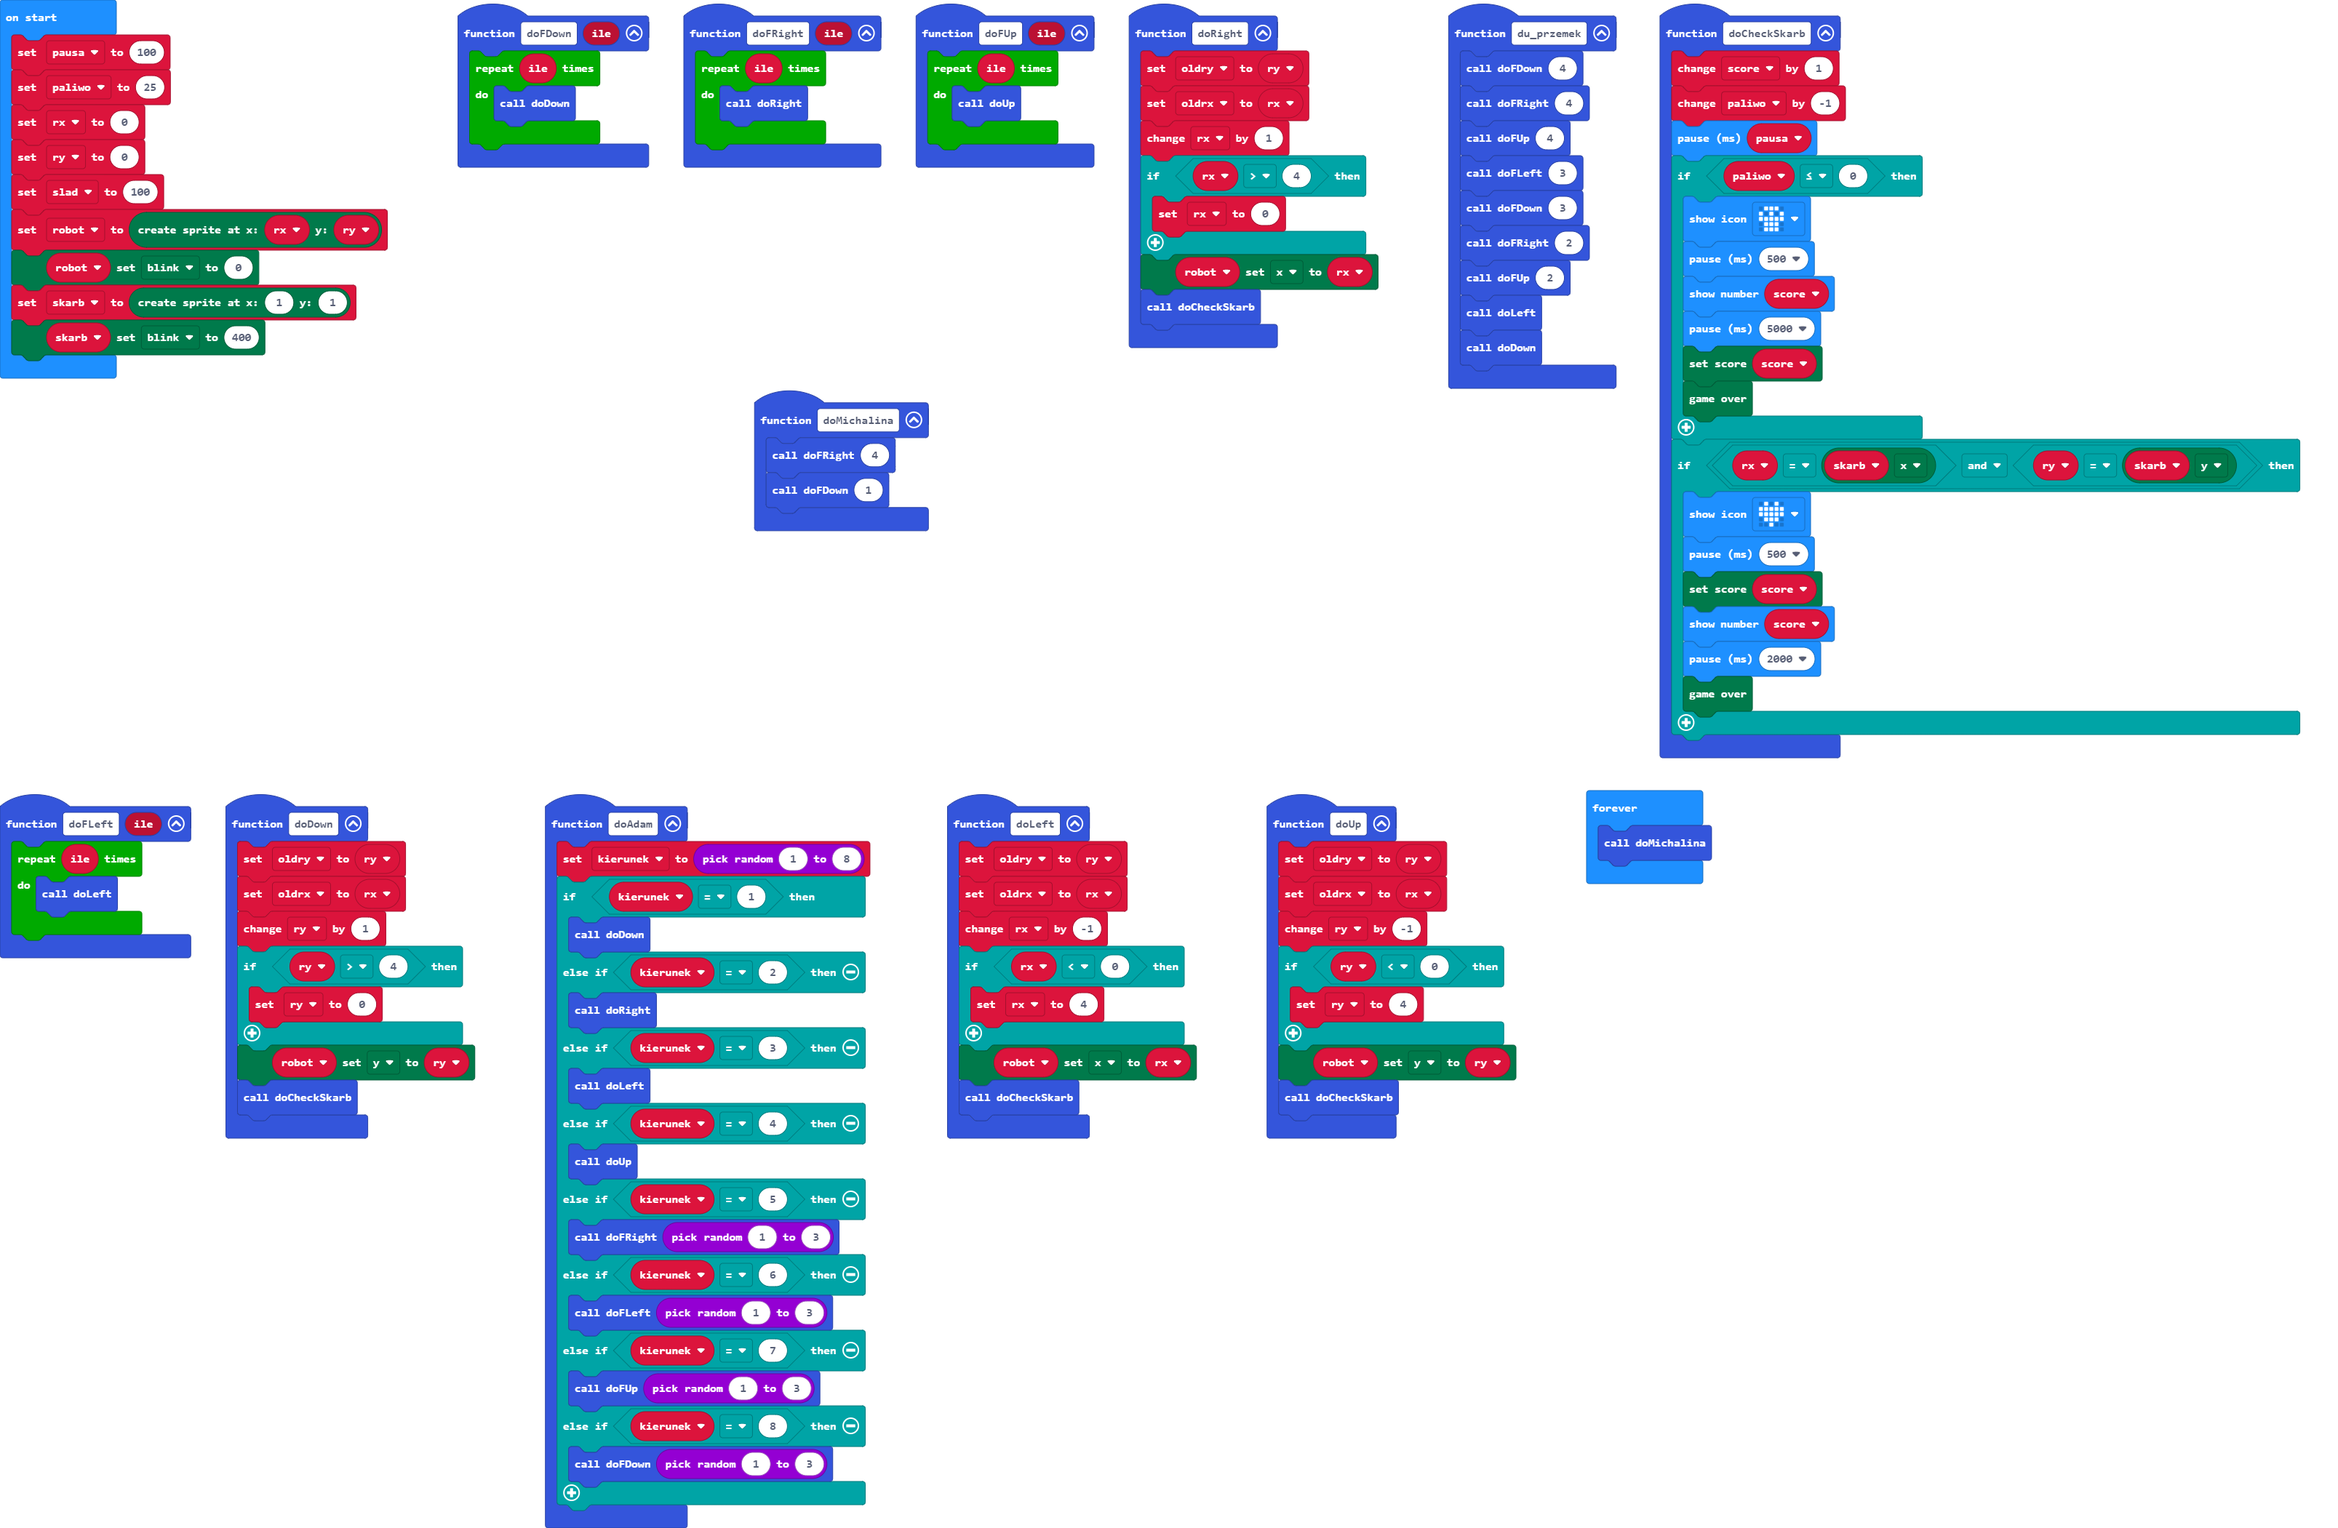
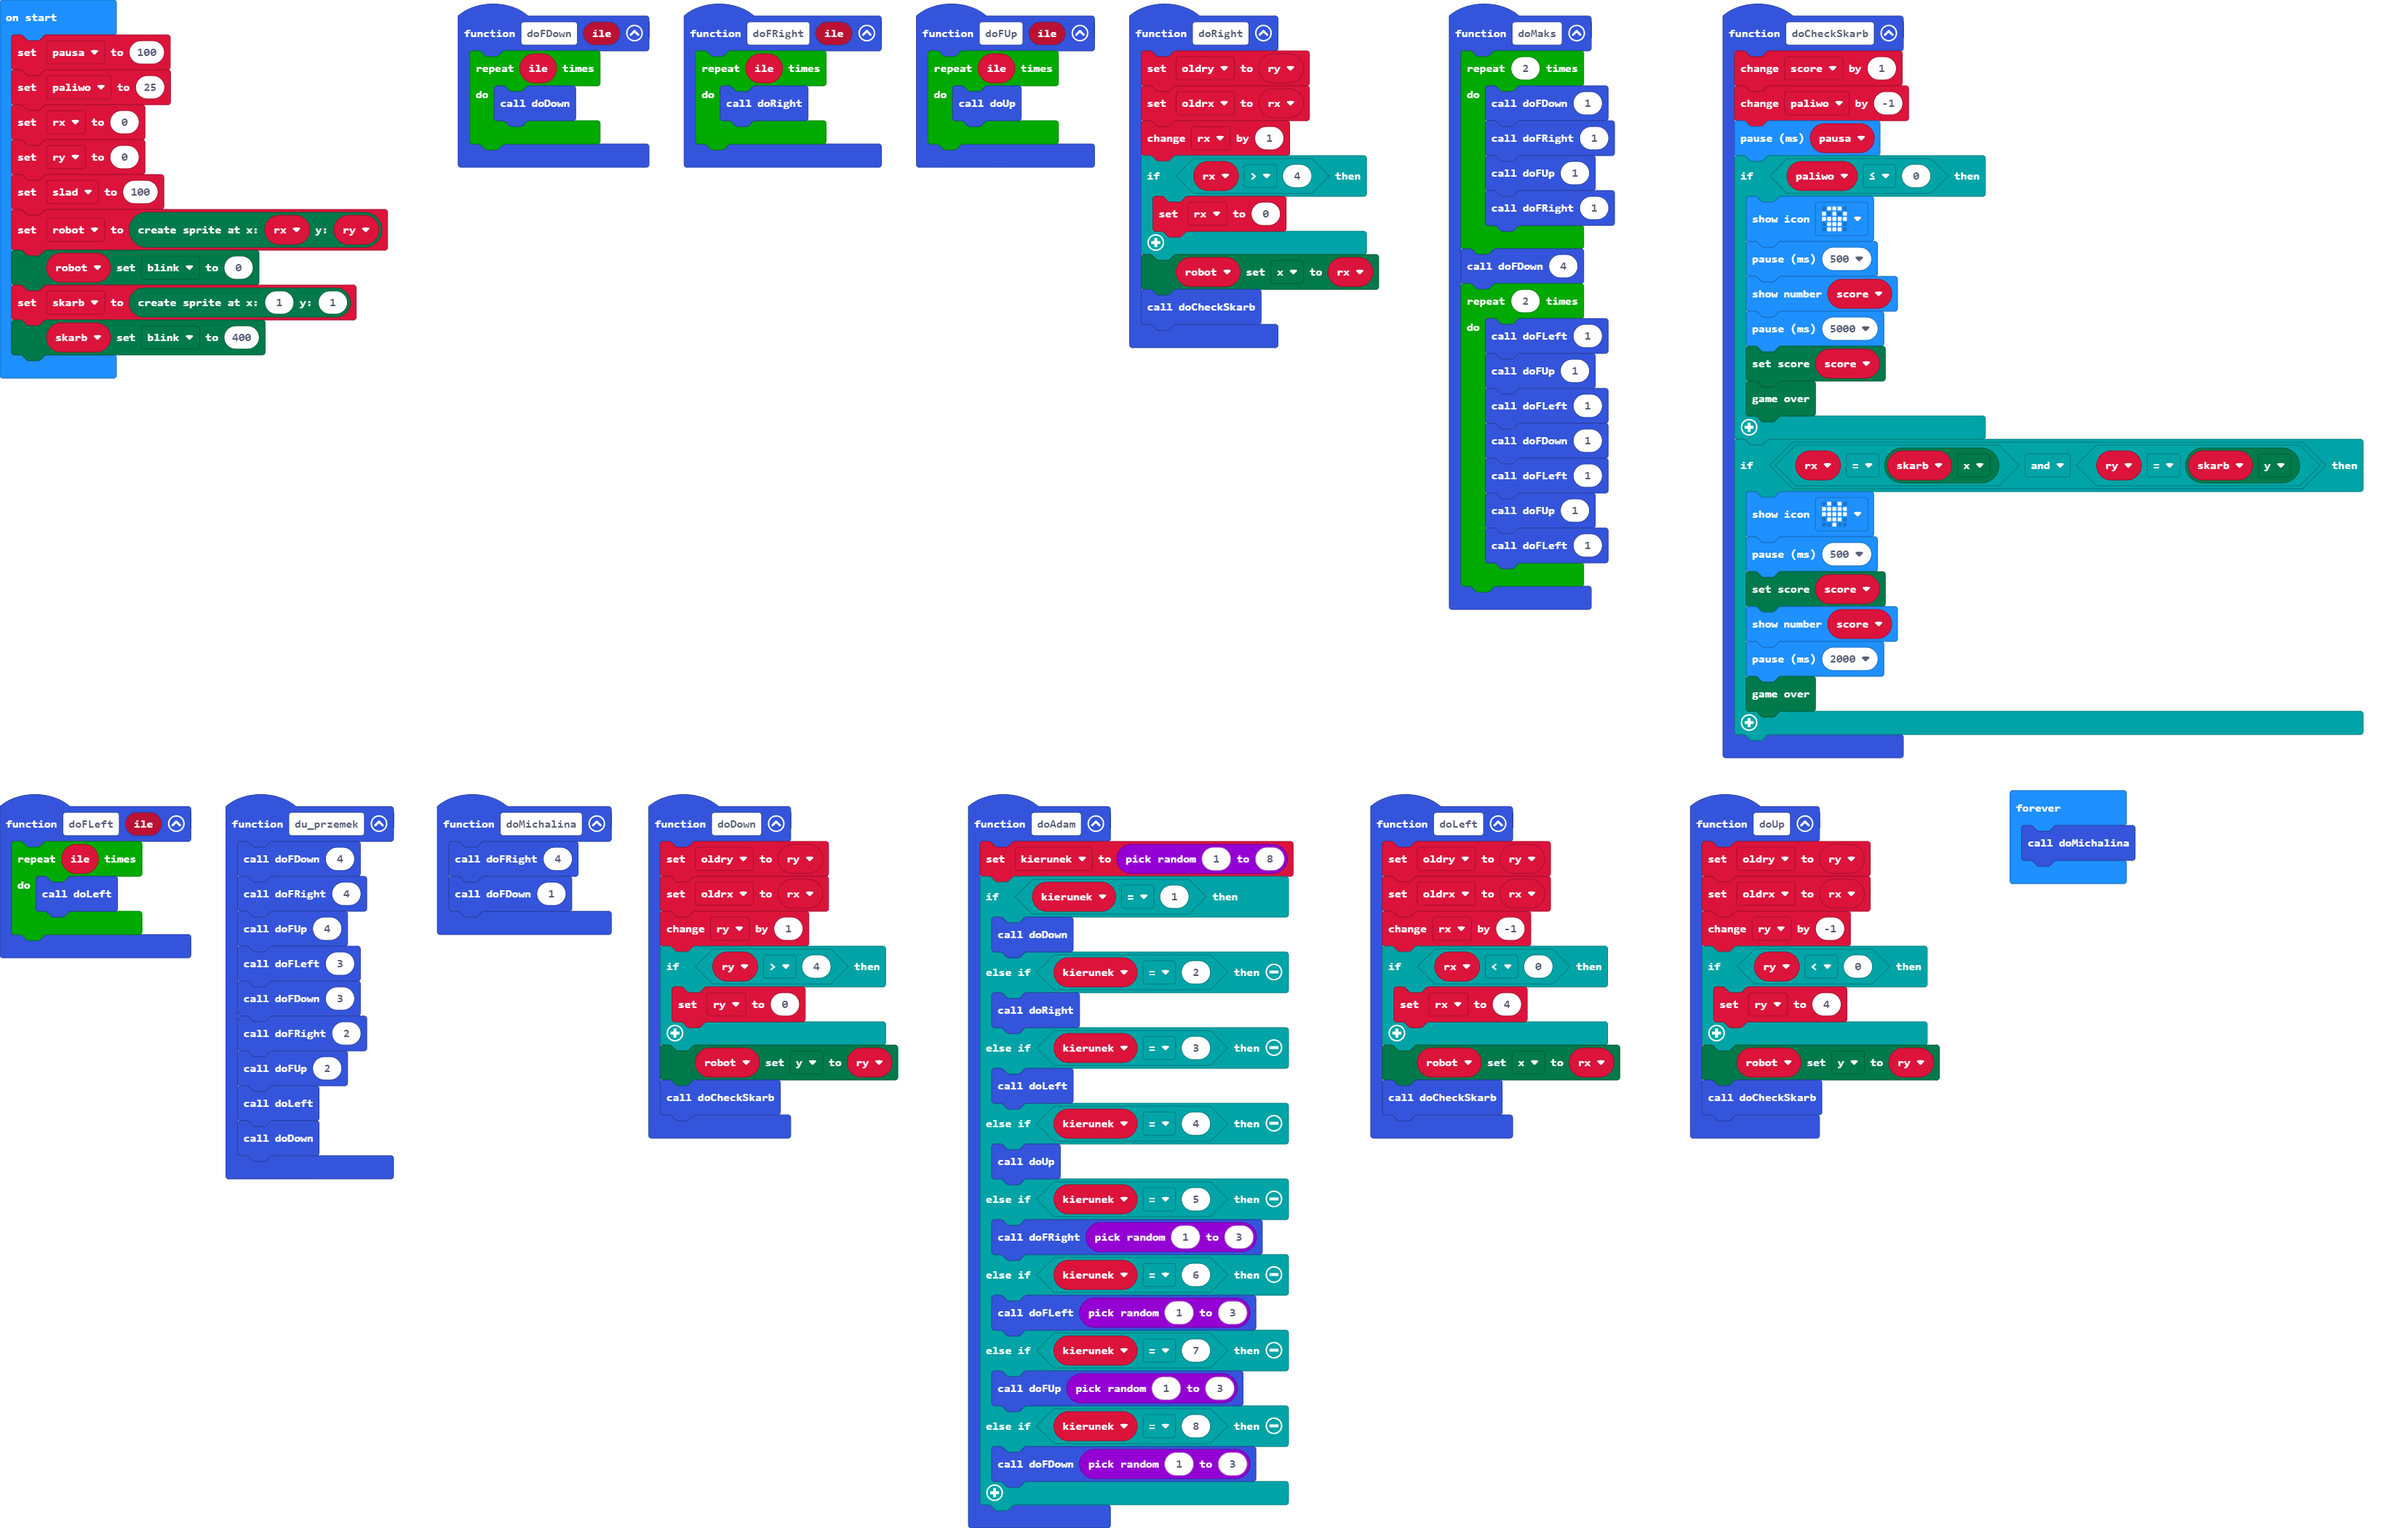
Update main.blocks, main.ts

diff --git a/main.ts b/main.ts
@@ -13,6 +13,24 @@ function doFUp (ile: number) {
         doUp()
     }
 }
+function doMaks () {
+    for (let index = 0; index < 2; index++) {
+        doFDown(1)
+        doFRight(1)
+        doFUp(1)
+        doFRight(1)
+    }
+    doFDown(4)
+    for (let index = 0; index < 2; index++) {
+        doFLeft(1)
+        doFUp(1)
+        doFLeft(1)
+        doFDown(1)
+        doFLeft(1)
+        doFUp(1)
+        doFLeft(1)
+    }
+}
 function doRight () {
     oldry = ry
     oldrx = rx
